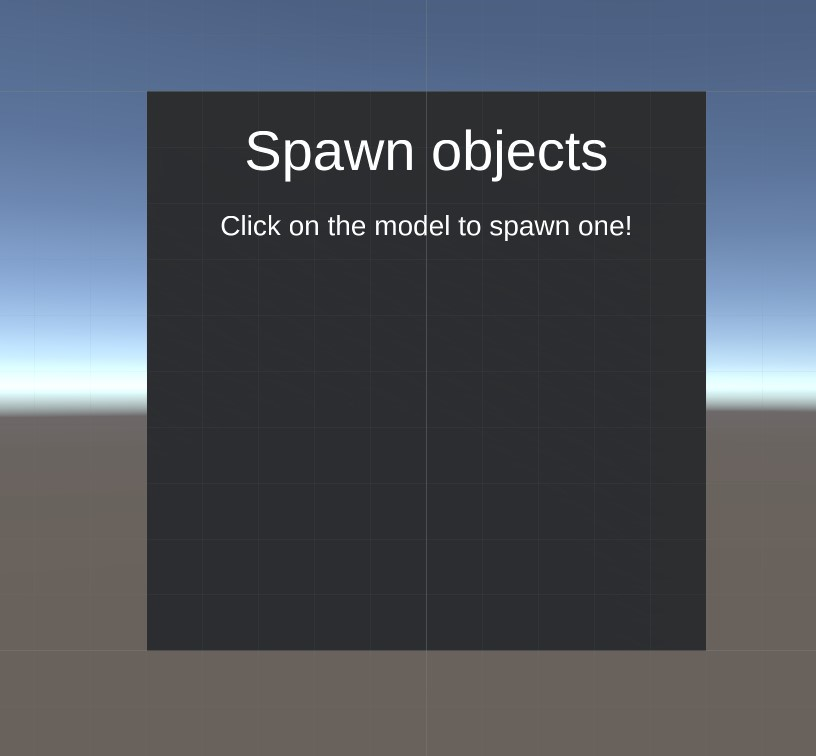
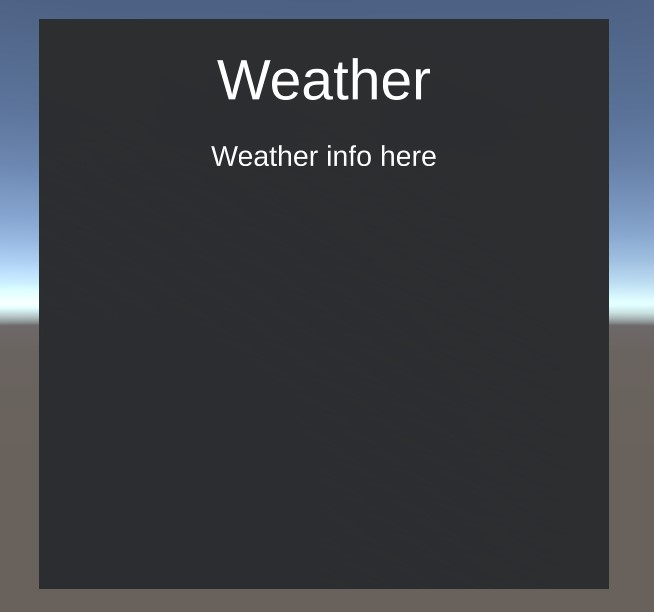
api task

diff --git a/6-MRTK-Features-Part-2/TASK3.md b/6-MRTK-Features-Part-2/TASK3.md
@@ -1,43 +1,53 @@
-# Solver
-
+# Solver and API
 
 ## ✏ Create a new scene and parent components
-Create a new scene in the scenes folder called `4_Solver`.
+Create a new scene in the scenes folder called `4_API`.
 
 Add an empty GameObject called `Playspace`.
 
-## ✏ Create a menu
-Create a new empty GameObject called `Menu`.
+## ✏ Create a pane
+Create a new empty GameObject called `Weather` inside `Playspace`
 
 Try to recreate this:   
 ![Menu](Screenshots/menu.jpg)
 
 Some pointers: cube, Text mesh pro and a MRTK material.
 
+The title and the weather text should be two different components so we can change the text by script later. 
+
 ## ✏ Add a solver
-When creating a menu like this, we can make it turn toward the user as the user moves around, and stay inside the viewport. 
+When creating a pane like this, we can make it turn toward the user as the user moves around, and stay inside the viewport. 
 
 To do this we first add the `Solver Handler`-script to the `Menu`-GameObject. 
 
 Next we add the `Radial view`-script. 
 
-Test it in `Play mode` and tweak the settings until you think it works as it should. 
+Test it in `Play mode` and tweak the settings until you think they are OK. I'd recommend trying to build this application and try it on the HoloLens at a later stage, to see if the pane works as you think it would while testing in Play mode. 
 
-## ✏ Create a couple of prefabs
+## ✏ Get data from API
+Create a new script called `WeatherData`.
 
-Find some 3D-models here: [https://poly.google.com/](https://poly.google.com/) and import them to the `Assets`-folder. 
+We are going to use [https://openweathermap.org/](https://openweathermap.org/)s API to get weather data. 
 
-❗ Remember that the HoloLens has limited processing power, so don't take the most advanced 3D models. 
+First you need to get an API-key. See the instructions here: [https://openweathermap.org/appid#get](https://openweathermap.org/appid#get).
 
-Add the 3D-model to the Hierarchy, give it the `Manipulation handler`-script and scale it to a sensible size. Create a prefab of the 3D-model. 
+Use the [UnityEngine.Networking](https://docs.unity3d.com/2018.3/Documentation/ScriptReference/Networking.UnityWebRequest.html) to make a request to openweathermap.org to get the data. 
 
-## ✏ Create a script
-Create a new script called `Prefab`-spawner and create a script that takes in a GameObject (prefab) and spawns an instance of it.
+The URL would look something like this: `https://api.openweathermap.org/data/2.5/weather?q=Stavanger&units=metric&appid={YOURAPIKEY}`
 
-## ✏ Spawn the prefabs
+Next create a new folder called `Plugins`. Create a script called `SimpleJSON` inside it and add the content from [here](https://github.com/Bunny83/SimpleJSON/blob/master/SimpleJSON.cs).
 
-Add buttons or 3D objects to the `Menu` that runs the spawn prefab function.
+Use SimpleJSON to parse the JSON response and print it to the Location, weather description and temperature to the weather info text you added earlier. 
 
-⭐ Add different prefabs, spawn the prefabs in different locations, build an AppX and try it on the HoloLens (remember to change the Template 3D).
+## ✏ Add a keyboard
+The MRTK has a [keyboard](https://github.com/Microsoft/MixedRealityToolkit-Unity/blob/mrtk_release/Documentation/README_SystemKeyboard.md) we can use to get input from the user. 
 
-[Move along ▶](TASK.md)
+Add the keyboard to an on click function (either a custom element or use a button).
+
+If you have previously added the api call to the onStart function, move it so we can also run it on a button.
+
+Add the users keyboard input to the URL.
+
+Create a search button so that the user can run the function you created.
+
+Build the application as AppX and try it on the HoloLens. 
